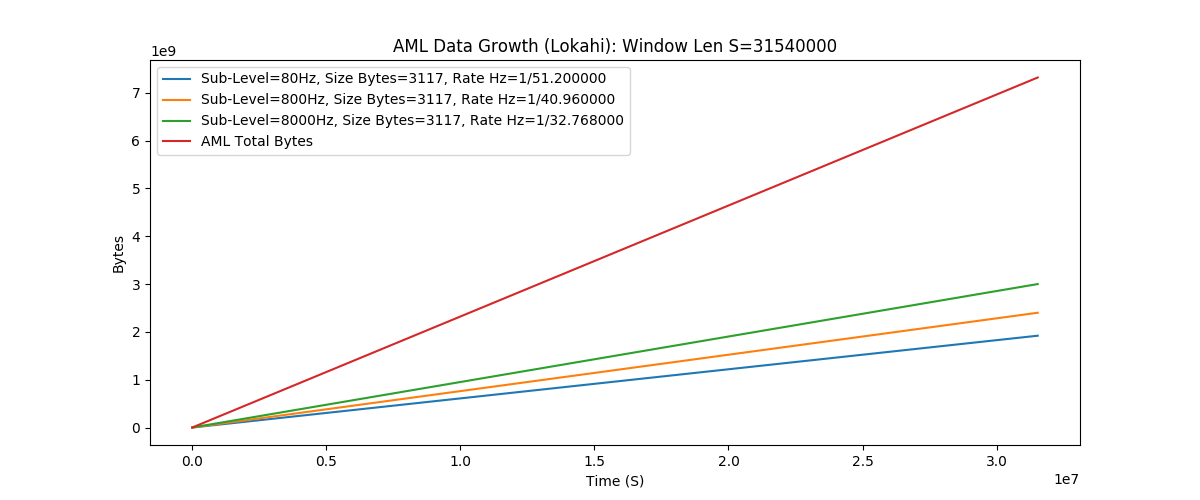
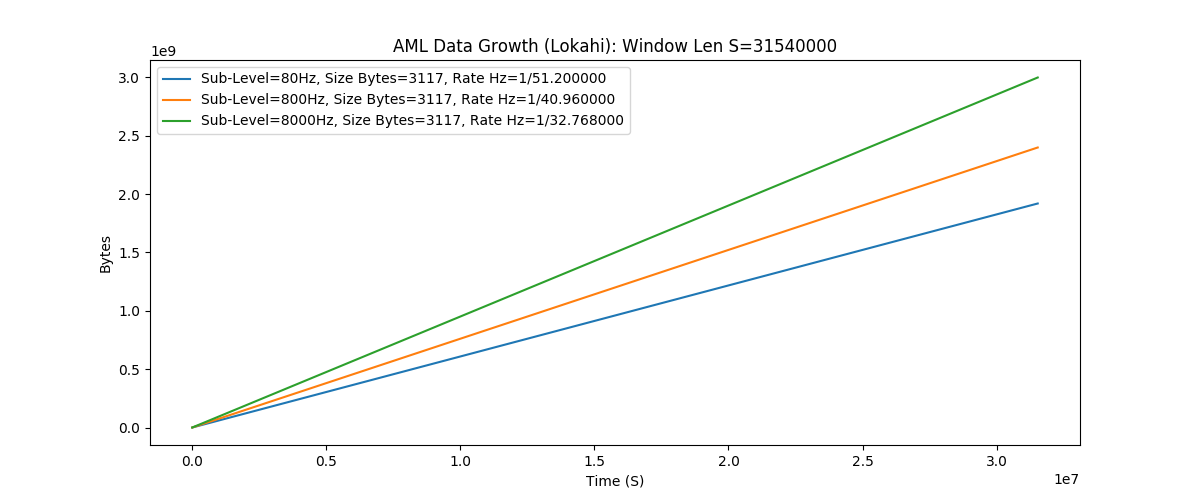
Updates.

diff --git a/src/evaluation.tex b/src/evaluation.tex
@@ -230,7 +230,7 @@ Equation~\ref{eq:aml} shows the size of the AML $S_{AML}$ including all sub-leve
 	S_{AML} = \sum_{i=1}^{S_{SL_{n}}} S_{SL_{i}}
 \end{equation}
 
-Figure~\ref{fig:plot_aml_level_opq_single} examines the growth of the AML level using OPQ as a basis over a time period of one year. We can see that measurements which have a size of 144 bytes and a rate of 1 Hz dominates the data growth which is what we would expect since measurements send at a higher rate. Trends data growth (orange series) on the other hand appears to be almost flat. Finally, the green series represents the total size of the two sub-levels and the sum data storage of the AML\@.
+Figure~\ref{fig:plot_aml_level_opq_single} examines the growth of the AML level using OPQ as a basis over a time period of one year for a single sensor. We can see that measurements which have a size of 144 bytes and a rate of 1 Hz dominates the data growth which is what we would expect since measurements send at a higher rate. Trends data growth (orange series) on the other hand appears to be almost flat. Finally, the green series represents the total size of the two sub-levels and the sum data storage of the AML for a single sensor.
 
 \begin{figure}[H]
 	\centering
@@ -241,7 +241,7 @@ Figure~\ref{fig:plot_aml_level_opq_single} examines the growth of the AML level 
 
 We can see from this figure that left unbounded, the AML can grow to near 5GB a year per sensor in the OPQ network.
 
-Figure~\ref{fig:plot_aml_level_lokahi_single} examines data growth of the AML using Lokahi as a basis over a time period of one year. In this sensor network, the size of each Aggregate Measurement remains constant over each sub-level and only the AML rate varies. We can see that none of the sub-levels tend to dominate, but the combined size of the AML can grow quickly.
+Figure~\ref{fig:plot_aml_level_lokahi_single} examines data growth of the AML using Lokahi as a basis over a time period of one year for a single sensor. In this sensor network, the size of each Aggregate Measurement remains constant over each sub-level and only the AML rate varies. We can see that none of the sub-levels tend to dominate.
 
 \begin{figure}[H]
 	\centering
@@ -250,7 +250,20 @@ Figure~\ref{fig:plot_aml_level_lokahi_single} examines data growth of the AML us
 	\label{fig:plot_aml_level_lokahi_single}
 \end{figure}
 
-From this figure, we can conclude that the AML can grown to near 3GB a year per sensor at the maximum sampling rate in the Lokahi network if the data remains unbounded.
+From this figure, we can conclude that the AML can grow to near 3GB a year per sensor at the maximum sampling rate in the Lokahi network if the data remains unbounded.
+
+We can also provide statistical bounds on the AML to account for the mean number of sensors $\mu B$ sending Aggregate Measurements at any time $T$.
+
+\begin{align}
+	\delta B &= \frac{\sigma B}{\sqrt{T}} \\
+	\delta S_{SL} &= \delta B * |S_{V} * SR * T| \\
+	\mu S_{SL} &= S_{V} * SR * T * \mu B \pm \delta S_{SL}
+\end{align}
+
+\begin{align}
+	\delta S_{AML} &= \sqrt{\sum_{i=1}^{\delta S_{SL_{n}}} (\delta S_{SL_{i}})^2} \\
+	\mu S_{AML} &= (\sum_{i=1}^{\mu S_{SL_{n}}} \mu S_{SL_{i}}) \pm \delta S_{AML}
+\end{align}
 
 \paragraph{DL Requirements}
 The detections level contains metadata and associated sampled high fidelity data that was returned from sensors for a given time window. A single detection can contain samples from multiple data streams for a single event of interest.
@@ -420,6 +433,20 @@ An upper and lower bounds on storage requirements per sensor for the PL can be f
 
 Now that we can compute the bounds for different levels within the Laha hierarchy, let's examine how the requirements compare between each level given data that resembles the OPQ and Lokahi DSNs.
 
+Analytically, when all parameters are known, the size of the entire DSN $S_{DSN}$ can be computed as shown in Equation.
+
+\begin{equation}
+	S_{DSN} = S_{IML} + S_{AML} + S_{DL} + S_{IL} + S_{P}
+\end{equation}
+
+Statistically speaking, the mean size of the DSN os provided by Equations.
+
+\begin{align}
+	\delta S_{DSN} &= \sqrt{(\delta S_{IML})^2 + (\delta S_{AML})^2 + (\delta S_{DL})^2 + (\delta S_{IL})^2 + (\delta S_{P})^2} \\
+	\mu S_{DSN} &= \mu S_{IML} + \mu S_{AML} + \mu S_{DL} + \mu S_{IL} + \mu S_{P} \pm \delta S_{DSN}
+\end{align}
+
+\subsubsection{Evaluation of TTL}
 
 During the acquisition and curating of data, metrics were collected and stored about how much data is saved (in bytes) versus how much data is discarded at each level within the Laha data hierarchy. These numbers were compared against data storage as if the OPQ and Lokahi frameworks were to take a ``store everything" approach. Evaluation metrics provided include percentage of data storage saved per data hierarchy level as well as an estimate of overall decrease in data storage requirements for the entire DSN. A positive result from these metrics would show significant reduction in storage requirements for each level in the framework compared against a ``store everything approach" and other state-of-the-art data storage solutions.
 

diff --git a/plotting/plots.py b/plotting/plots.py
@@ -202,7 +202,7 @@ def plot_aml_level_lokahi_single(window_length_s: int):
         total_y += y_values
         plt.plot(x_values, y_values, label="Sub-Level=%s, Size Bytes=%d, Rate Hz=1/%f" % (sl, size, rate))
 
-    plt.plot(x_values, total_y, label="AML Total Bytes")
+    # plt.plot(x_values, total_y, label="AML Total Bytes")
 
     plt.xlabel("Time (S)")
     plt.ylabel("Bytes")
@@ -352,9 +352,9 @@ if __name__ == "__main__":
     # plot_iml_level_no_opt_var_num_sensors(4, 12000, S_IN_YEAR, num_boxes)
     # plot_iml_level_no_opt_var_std(2, 80, S_IN_DAY * 5, 1000)
     # plot_aml_level_opq_single(S_IN_YEAR)
-    # plot_aml_level_lokahi_single(S_IN_YEAR)
+    plot_aml_level_lokahi_single(S_IN_YEAR)
     # plot_iml_level_opq()
     # plot_iml_level_lokahi()
     # plot_dl_opq_no_err()
     # plot_dl_opq_err()
-    plot_iml_avg_opq()
+    # plot_iml_avg_opq()
